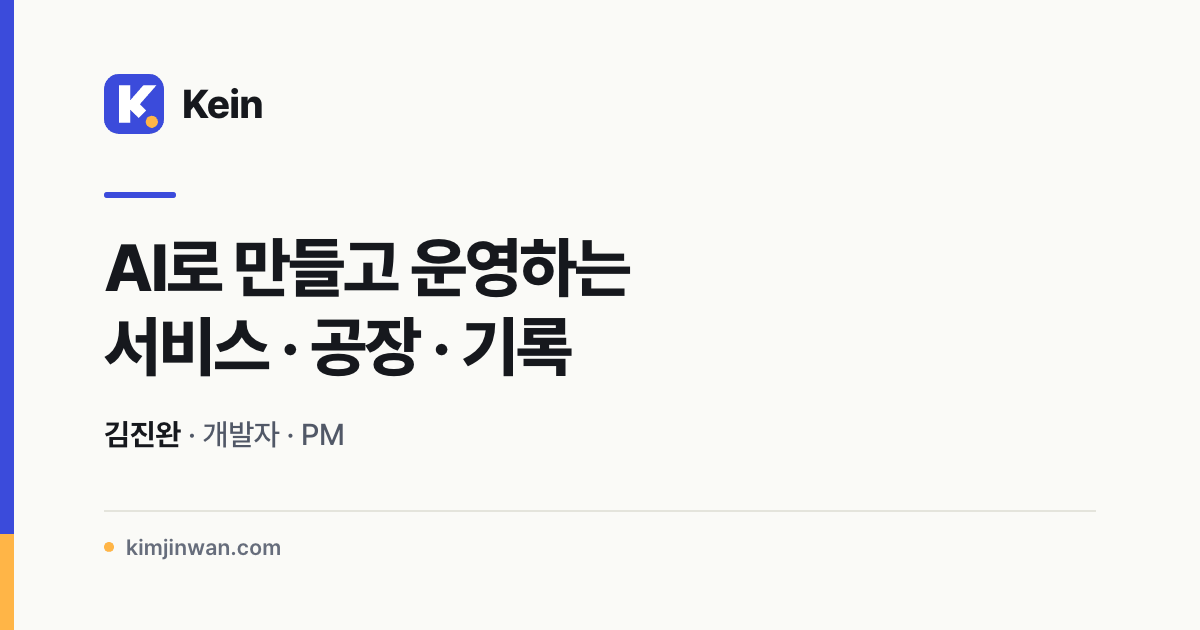
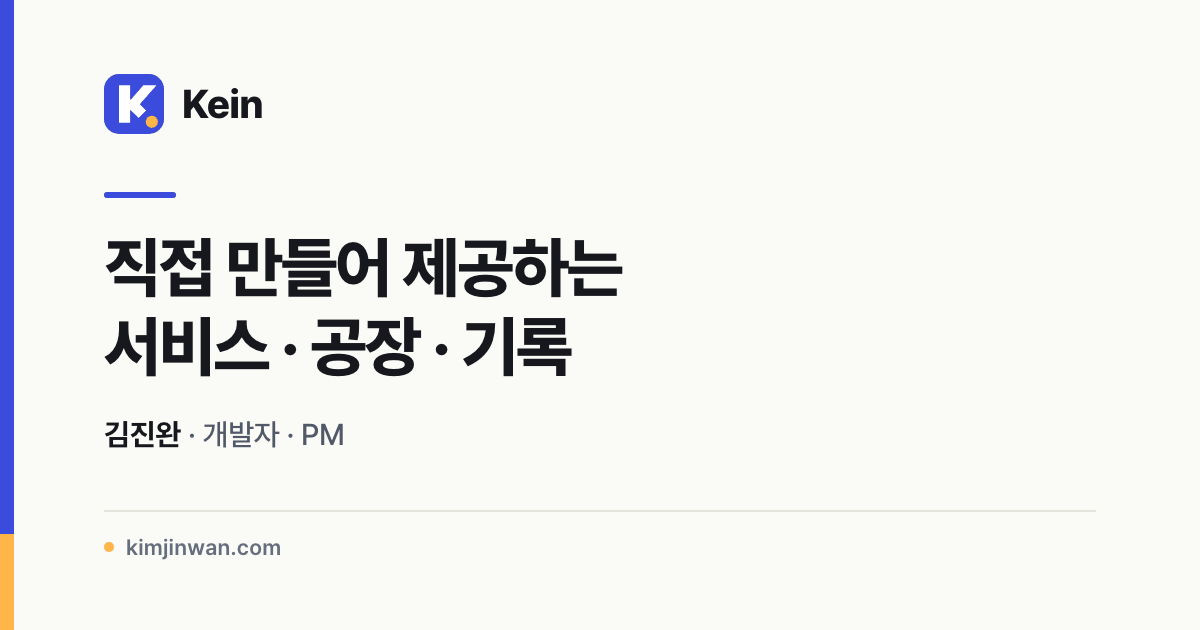
feat(home): 히어로 1인칭 소개로 재작성, '직접 만들어 제공하는 서비스' 표현 통일 (1.3.24)

Changed region(s): [[0.0925, 0.3619, 0.5242, 0.4825]]

diff --git a/index.html b/index.html
@@ -3,8 +3,8 @@
 <head>
 <meta charset="utf-8">
 <meta name="viewport" content="width=device-width,initial-scale=1">
-<title>김진완 — AI로 만들고 운영하는 개발자 · PM</title>
-<meta name="description" content="개발자·PM 김진완의 허브. 11년 현장 경력을 바탕으로 AI와 함께 직접 만들고 운영하는 서비스, 웹게임, 웹 도구, 블로그, 그리고 그 일을 돌리는 AI 공장 5곳을 한곳에 모았습니다.">
+<title>김진완 — 개발자 · PM</title>
+<meta name="description" content="개발자·PM 김진완의 홈페이지. 11년 현장 경력과, 직접 만들어 제공하는 서비스, 웹게임, 웹 도구, 블로그, 그리고 그 일을 돌리는 공장 5곳을 한곳에 모았습니다.">
 <meta name="robots" content="index,follow">
 <meta name="author" content="김진완">
 <meta name="google-adsense-account" content="ca-pub-5544615855471151">
@@ -19,24 +19,24 @@
 <meta property="og:site_name" content="Kein — 김진완">
 <meta property="og:locale" content="ko_KR">
 <meta property="og:locale:alternate" content="en_US">
-<meta property="og:title" content="김진완 — AI로 만들고 운영하는 개발자 · PM">
-<meta property="og:description" content="개발자·PM 김진완의 허브. 11년 현장 경력을 바탕으로 AI와 함께 직접 만들고 운영하는 서비스, 웹게임, 웹 도구, 블로그, 그리고 그 일을 돌리는 AI 공장 5곳을 한곳에 모았습니다.">
+<meta property="og:title" content="김진완 — 개발자 · PM">
+<meta property="og:description" content="개발자·PM 김진완의 홈페이지. 11년 현장 경력과, 직접 만들어 제공하는 서비스, 웹게임, 웹 도구, 블로그, 그리고 그 일을 돌리는 공장 5곳을 한곳에 모았습니다.">
 <meta property="og:url" content="https://kimjinwan.com/">
-<meta property="og:image" content="https://kimjinwan.com/assets/og/home.png?v=5f808c45a0">
-<meta property="og:image:secure_url" content="https://kimjinwan.com/assets/og/home.png?v=5f808c45a0">
+<meta property="og:image" content="https://kimjinwan.com/assets/og/home.png?v=7f8d5ca18e">
+<meta property="og:image:secure_url" content="https://kimjinwan.com/assets/og/home.png?v=7f8d5ca18e">
 <meta property="og:image:type" content="image/png">
 <meta property="og:image:width" content="1200">
 <meta property="og:image:height" content="630">
-<meta property="og:image:alt" content="“AI로 만들고 운영하는 서비스 · 공장 · 기록” — Kein 로고와 김진완 · 개발자 · PM, kimjinwan.com이 적힌 공유 카드">
+<meta property="og:image:alt" content="“직접 만들어 제공하는 서비스 · 공장 · 기록” — Kein 로고와 김진완 · 개발자 · PM, kimjinwan.com이 적힌 공유 카드">
 <meta name="twitter:card" content="summary_large_image">
-<meta name="twitter:title" content="김진완 — AI로 만들고 운영하는 개발자 · PM">
-<meta name="twitter:description" content="개발자·PM 김진완의 허브. 11년 현장 경력을 바탕으로 AI와 함께 직접 만들고 운영하는 서비스, 웹게임, 웹 도구, 블로그, 그리고 그 일을 돌리는 AI 공장 5곳을 한곳에 모았습니다.">
-<meta name="twitter:image" content="https://kimjinwan.com/assets/og/home.png?v=5f808c45a0">
-<meta name="twitter:image:alt" content="“AI로 만들고 운영하는 서비스 · 공장 · 기록” — Kein 로고와 김진완 · 개발자 · PM, kimjinwan.com이 적힌 공유 카드">
-<script type="application/ld+json">{"@context":"https://schema.org","@graph":[{"@type":"WebSite","@id":"https://kimjinwan.com/#website","url":"https://kimjinwan.com/","name":"Kein — 김진완","alternateName":["김진완 포트폴리오","Kim Jinwan"],"inLanguage":["ko","en"],"publisher":{"@id":"https://kimjinwan.com/#person"}},{"@type":"Person","@id":"https://kimjinwan.com/#person","name":"김진완","alternateName":["Kim Jinwan","Kein"],"url":"https://kimjinwan.com/","jobTitle":["Software Product Manager","Developer"],"knowsAbout":["PM / PO","Full-stack Dev","Team Leadership","AI Production"]},{"@type":"ProfilePage","@id":"https://kimjinwan.com/#profile","url":"https://kimjinwan.com/","name":"김진완 — AI로 만들고 운영하는 개발자 · PM","description":"개발자·PM 김진완의 허브. 11년 현장 경력을 바탕으로 AI와 함께 직접 만들고 운영하는 서비스, 웹게임, 웹 도구, 블로그, 그리고 그 일을 돌리는 AI 공장 5곳을 한곳에 모았습니다.","inLanguage":"ko","dateModified":"2026-10-12","mainEntity":{"@id":"https://kimjinwan.com/#person"},"isPartOf":{"@id":"https://kimjinwan.com/#website"},"relatedLink":"https://blog.kimjinwan.com/","primaryImageOfPage":{"@type":"ImageObject","@id":"https://kimjinwan.com/#primaryimage","url":"https://kimjinwan.com/assets/og/home.png?v=5f808c45a0","contentUrl":"https://kimjinwan.com/assets/og/home.png?v=5f808c45a0","thumbnailUrl":"https://kimjinwan.com/assets/og/home.png?v=5f808c45a0","width":1200,"height":630,"caption":"“AI로 만들고 운영하는 서비스 · 공장 · 기록” — Kein 로고와 김진완 · 개발자 · PM, kimjinwan.com이 적힌 공유 카드"},"thumbnailUrl":"https://kimjinwan.com/assets/og/home.png?v=5f808c45a0"}]}</script>
+<meta name="twitter:title" content="김진완 — 개발자 · PM">
+<meta name="twitter:description" content="개발자·PM 김진완의 홈페이지. 11년 현장 경력과, 직접 만들어 제공하는 서비스, 웹게임, 웹 도구, 블로그, 그리고 그 일을 돌리는 공장 5곳을 한곳에 모았습니다.">
+<meta name="twitter:image" content="https://kimjinwan.com/assets/og/home.png?v=7f8d5ca18e">
+<meta name="twitter:image:alt" content="“직접 만들어 제공하는 서비스 · 공장 · 기록” — Kein 로고와 김진완 · 개발자 · PM, kimjinwan.com이 적힌 공유 카드">
+<script type="application/ld+json">{"@context":"https://schema.org","@graph":[{"@type":"WebSite","@id":"https://kimjinwan.com/#website","url":"https://kimjinwan.com/","name":"Kein — 김진완","alternateName":["김진완 포트폴리오","Kim Jinwan"],"inLanguage":["ko","en"],"publisher":{"@id":"https://kimjinwan.com/#person"}},{"@type":"Person","@id":"https://kimjinwan.com/#person","name":"김진완","alternateName":["Kim Jinwan","Kein"],"url":"https://kimjinwan.com/","jobTitle":["Software Product Manager","Developer"],"knowsAbout":["PM / PO","Full-stack Dev","Team Leadership","AI Production"]},{"@type":"ProfilePage","@id":"https://kimjinwan.com/#profile","url":"https://kimjinwan.com/","name":"김진완 — 개발자 · PM","description":"개발자·PM 김진완의 홈페이지. 11년 현장 경력과, 직접 만들어 제공하는 서비스, 웹게임, 웹 도구, 블로그, 그리고 그 일을 돌리는 공장 5곳을 한곳에 모았습니다.","inLanguage":"ko","dateModified":"2026-10-12","mainEntity":{"@id":"https://kimjinwan.com/#person"},"isPartOf":{"@id":"https://kimjinwan.com/#website"},"relatedLink":"https://blog.kimjinwan.com/","primaryImageOfPage":{"@type":"ImageObject","@id":"https://kimjinwan.com/#primaryimage","url":"https://kimjinwan.com/assets/og/home.png?v=7f8d5ca18e","contentUrl":"https://kimjinwan.com/assets/og/home.png?v=7f8d5ca18e","thumbnailUrl":"https://kimjinwan.com/assets/og/home.png?v=7f8d5ca18e","width":1200,"height":630,"caption":"“직접 만들어 제공하는 서비스 · 공장 · 기록” — Kein 로고와 김진완 · 개발자 · PM, kimjinwan.com이 적힌 공유 카드"},"thumbnailUrl":"https://kimjinwan.com/assets/og/home.png?v=7f8d5ca18e"}]}</script>
 <link rel="preconnect" href="https://cdn.jsdelivr.net">
 <link rel="stylesheet" href="https://cdn.jsdelivr.net/gh/orioncactus/pretendard@v1.3.9/dist/web/static/pretendard-dynamic-subset.css">
-<link rel="stylesheet" href="/css/style.css?v=1.3.23">
+<link rel="stylesheet" href="/css/style.css?v=1.3.24">
 <script src="/js/theme-core.js"></script>
 <script>document.documentElement.classList.add('js');__theme.apply()</script>
 </head>
@@ -66,8 +66,8 @@
 <header class="hero2" id="top"><div class="wrap hero2-grid">
   <div>
     <div class="sec-no eyebrow-row"><svg class="ico" width="16" height="16" viewBox="0 0 24 24" fill="none" stroke="currentColor" stroke-width="1.75" stroke-linecap="round" stroke-linejoin="round" aria-hidden="true" focusable="false"><circle cx="12" cy="8" r="4"/><path d="M4 21c0-4.4 3.6-7 8-7s8 2.6 8 7"/></svg><span data-lang-ko>개발자 · PM 김진완</span><span data-lang-en>Developer &amp; PM · Kim Jinwan</span></div>
-    <h1><span data-lang-ko>AI로 만들고 직접 운영하는<br>개발자 · PM, 김진완입니다.</span><span data-lang-en>I'm Jinwan Kim, a developer &amp; PM<br>who builds and runs services with AI.</span></h1>
-    <p class="lead"><span data-lang-ko>영업·기획에서 시작해 개발자, 개발팀장, PM으로 11년을 현장에서 일했습니다. 지금은 그 경험으로 무엇을 만들지 정하고, 반복되는 작업은 직접 설계한 AI 공장에 맡깁니다. 이 페이지는 직접 만들어 운영하는 서비스, 그 생산을 맡은 AI 공장, 그리고 경력 순서로 이어집니다.</span><span data-lang-en>I spent 11 years in the field, starting in sales and planning and moving on to developer, dev lead and PM. Now that experience decides what I build, and the repetitive work goes to AI factories I designed. This page follows that in order: the services I build and run, the AI factories behind them, and my career.</span></p>
+    <h1><span data-lang-ko>안녕하세요,<br>개발자이자 PM 김진완입니다.</span><span data-lang-en>Hi, I'm Jinwan Kim,<br>a developer and PM.</span></h1>
+    <p class="lead"><span data-lang-ko>영업과 기획에서 시작해 개발자, 개발팀장, PM까지 11년을 현장에서 일했습니다. 문제를 쪼개 논리적으로 풀고, 검증을 통과한 것만 내놓고, 만든 것은 끝까지 운영하는 방식으로 일합니다. 지금도 쉬지 않고 무언가를 만들고 있습니다. 아래에는 만들어 제공하는 서비스, 그 생산을 맡긴 공장, 그리고 지나온 경력을 차례로 적었습니다.</span><span data-lang-en>I started in sales and planning, then spent 11 years in the field as a developer, dev lead and PM. I break problems down and solve them logically, ship only what passes verification, and keep running what I build. I still never stop making things. Below are the services I provide, the factories behind them, and the career that led here.</span></p>
   </div>
   <div class="hero-media">
     <video id="heroVideo" class="hero-video" src="/assets/hero/jinwan-intro.mp4" poster="/assets/hero/jinwan-intro.jpg" muted loop playsinline autoplay preload="metadata" width="1920" height="1080" aria-label="김진완 소개 모션그래픽 영상"></video>
@@ -80,8 +80,8 @@
 
 <section class="block story" id="services"><div class="wrap">
   <div class="sec-head"><div class="sec-no"><svg class="ico" width="16" height="16" viewBox="0 0 24 24" fill="none" stroke="currentColor" stroke-width="1.75" stroke-linecap="round" stroke-linejoin="round" aria-hidden="true" focusable="false"><path d="M5 15c-1.5 1.2-2 4-2 6 2 0 4.8-.5 6-2"/><path d="M12 15 9 12c.5-4 4-8.5 11-9 0 7-5 10.5-8 12z"/><circle cx="15" cy="9" r="1.2"/></svg><b>01</b> Services</div>
-    <h2 class="sec-title"><span data-lang-ko>직접 만들어 운영하는 서비스</span><span data-lang-en>Services I build and run</span></h2></div>
-    <p class="bridge"><span data-lang-ko>먼저 크게 만든 것들입니다. 전부 직접 만들었고, 지금도 실제 주소에서 운영하고 있습니다.</span><span data-lang-en>First, the big ones. I built every one myself, and I still run them at their live addresses.</span></p>
+    <h2 class="sec-title"><span data-lang-ko>직접 만들어 제공하는 서비스</span><span data-lang-en>Services I build and provide</span></h2></div>
+    <p class="bridge"><span data-lang-ko>먼저 크게 만든 것들입니다. 전부 직접 만들었고, 지금도 실제 주소에서 제공하고 있습니다.</span><span data-lang-en>First, the big ones. I built every one myself, and they are all available at their live addresses.</span></p>
     <div class="svc-block"><div class="svc-jump" role="group" aria-label="service categories"><button type="button" class="pill" data-svc-cat="all" aria-pressed="true"><svg class="ico" width="16" height="16" viewBox="0 0 24 24" fill="none" stroke="currentColor" stroke-width="1.75" stroke-linecap="round" stroke-linejoin="round" aria-hidden="true" focusable="false"><path d="m12 3 9 5-9 5-9-5z"/><path d="m3 13 9 5 9-5"/></svg><span data-lang-ko>전체</span><span data-lang-en>All</span><span class="pill-n mono">12</span></button><button type="button" class="pill" data-svc-cat="document" aria-pressed="false"><svg class="ico" width="16" height="16" viewBox="0 0 24 24" fill="none" stroke="currentColor" stroke-width="1.75" stroke-linecap="round" stroke-linejoin="round" aria-hidden="true" focusable="false"><path d="M14 3H7a2 2 0 0 0-2 2v14a2 2 0 0 0 2 2h10a2 2 0 0 0 2-2V8z"/><path d="M14 3v5h5"/><path d="M9 13h6M9 17h6"/></svg><span data-lang-ko>문서·업무</span><span data-lang-en>Documents &amp; work</span><span class="pill-n mono">3</span></button><button type="button" class="pill" data-svc-cat="creative" aria-pressed="false"><svg class="ico" width="16" height="16" viewBox="0 0 24 24" fill="none" stroke="currentColor" stroke-width="1.75" stroke-linecap="round" stroke-linejoin="round" aria-hidden="true" focusable="false"><path d="M12 3l1.9 5.1L19 10l-5.1 1.9L12 17l-1.9-5.1L5 10l5.1-1.9z"/><path d="M19 15v4M17 17h4"/></svg><span data-lang-ko>디자인·창작</span><span data-lang-en>Design &amp; creative</span><span class="pill-n mono">3</span></button><button type="button" class="pill" data-svc-cat="build" aria-pressed="false"><svg class="ico" width="16" height="16" viewBox="0 0 24 24" fill="none" stroke="currentColor" stroke-width="1.75" stroke-linecap="round" stroke-linejoin="round" aria-hidden="true" focusable="false"><path d="M14.7 6.3a4 4 0 0 0 5 5L21 13l-8 8-4-4-4 1 1-4 8-8z"/><path d="m15 9 3-3"/></svg><span data-lang-ko>개발·제작</span><span data-lang-en>Build &amp; make</span><span class="pill-n mono">2</span></button><button type="button" class="pill" data-svc-cat="hub" aria-pressed="false"><svg class="ico" width="16" height="16" viewBox="0 0 24 24" fill="none" stroke="currentColor" stroke-width="1.75" stroke-linecap="round" stroke-linejoin="round" aria-hidden="true" focusable="false"><rect x="2" y="7" width="20" height="11" rx="5"/><path d="M7 10.5v4M5 12.5h4"/><path d="M15.5 11.5h.01M18 13.5h.01"/></svg><span data-lang-ko>게임·도구·글</span><span data-lang-en>Games, tools &amp; writing</span><span class="pill-n mono">3</span></button><button type="button" class="pill" data-svc-cat="ai-tools" aria-pressed="false"><svg class="ico" width="16" height="16" viewBox="0 0 24 24" fill="none" stroke="currentColor" stroke-width="1.75" stroke-linecap="round" stroke-linejoin="round" aria-hidden="true" focusable="false"><path d="m12 3 9 5-9 5-9-5z"/><path d="m3 13 9 5 9-5"/></svg><span data-lang-ko>AI 도구 모음</span><span data-lang-en>AI tool collections</span><span class="pill-n mono">1</span></button></div>
 <div class="svc-feature" id="svc-grid"><article class="card svc-wide" id="svc-casewright" data-category="build">
   <div class="svcw-shot"><img src="/assets/services/casewright.png" alt="Casewright screenshot" loading="lazy" width="640" height="400"></div>
@@ -347,7 +347,7 @@
 <footer id="contact"><div class="wrap">
   <div class="foot-cta">
     <h2><span data-lang-ko>함께 만들 무언가가 있다면</span><span data-lang-en>Got something to build together?</span></h2>
-    <p><span data-lang-ko>현장의 디테일을 이해하고 정확하게 이끄는 PM, 그리고 AI로 직접 만들어 운영까지 하는 개발자를 찾는다면 연락 주세요.</span><span data-lang-en>If you need a PM who understands the work and leads with precision, and a developer who builds and runs things with AI, let's talk.</span></p>
+    <p><span data-lang-ko>현장의 디테일을 이해하고 정확하게 이끄는 PM, 그리고 직접 만들어 제공하는 개발자를 찾는다면 연락 주세요.</span><span data-lang-en>If you need a PM who understands the work and leads with precision, and a developer who builds and delivers things on their own, let's talk.</span></p>
     <div class="contacts">
       <a href="mailto:k_star_w@naver.com"><svg class="ico" width="18" height="18" viewBox="0 0 24 24" fill="none" stroke="currentColor" stroke-width="1.75" stroke-linecap="round" stroke-linejoin="round" aria-hidden="true" focusable="false"><rect x="3" y="5" width="18" height="14" rx="2"/><path d="m3 7 9 6 9-6"/></svg>k_star_w@naver.com</a>
     </div>

diff --git a/factories/index.html b/factories/index.html
@@ -36,7 +36,7 @@
 <script type="application/ld+json">{"@context":"https://schema.org","@graph":[{"@type":"WebSite","@id":"https://kimjinwan.com/#website","url":"https://kimjinwan.com/","name":"Kein — 김진완","alternateName":["김진완 포트폴리오","Kim Jinwan"],"inLanguage":["ko","en"],"publisher":{"@id":"https://kimjinwan.com/#person"}},{"@type":"Person","@id":"https://kimjinwan.com/#person","name":"김진완","alternateName":["Kim Jinwan","Kein"],"url":"https://kimjinwan.com/","jobTitle":["Software Product Manager","Developer"],"knowsAbout":["PM / PO","Full-stack Dev","Team Leadership","AI Production"]},{"@type":"WebPage","@id":"https://kimjinwan.com/factories/#webpage","url":"https://kimjinwan.com/factories/","name":"서비스를 만드는 AI 공장 5곳 — 김진완","description":"앱, 웹게임, 쇼츠 영상, 블로그, 웹 도구를 꾸준히 만들어 내도록 직접 설계한 AI 공장 5곳. 공장마다 만드는 것과 거치는 단계, 출시 전에 확인하는 기준, 사람이 직접 맡는 일을 정리했습니다.","inLanguage":"ko","dateModified":"2026-10-12","isPartOf":{"@id":"https://kimjinwan.com/#website"},"about":{"@id":"https://kimjinwan.com/#person"},"breadcrumb":{"@id":"https://kimjinwan.com/factories/#breadcrumb"},"primaryImageOfPage":{"@type":"ImageObject","@id":"https://kimjinwan.com/factories/#primaryimage","url":"https://kimjinwan.com/assets/og/factories.png?v=7e303932e4","contentUrl":"https://kimjinwan.com/assets/og/factories.png?v=7e303932e4","thumbnailUrl":"https://kimjinwan.com/assets/og/factories.png?v=7e303932e4","width":1200,"height":630,"caption":"“서비스를 만드는 AI 공장 5곳” — Kein 로고와 김진완 · 개발자 · PM, kimjinwan.com이 적힌 공유 카드"},"thumbnailUrl":"https://kimjinwan.com/assets/og/factories.png?v=7e303932e4"},{"@type":"BreadcrumbList","@id":"https://kimjinwan.com/factories/#breadcrumb","itemListElement":[{"@type":"ListItem","position":1,"name":"홈","item":"https://kimjinwan.com/"},{"@type":"ListItem","position":2,"name":"AI 공장","item":"https://kimjinwan.com/factories/"}]}]}</script>
 <link rel="preconnect" href="https://cdn.jsdelivr.net">
 <link rel="stylesheet" href="https://cdn.jsdelivr.net/gh/orioncactus/pretendard@v1.3.9/dist/web/static/pretendard-dynamic-subset.css">
-<link rel="stylesheet" href="/css/style.css?v=1.3.23">
+<link rel="stylesheet" href="/css/style.css?v=1.3.24">
 <script src="/js/theme-core.js"></script>
 <script>document.documentElement.classList.add('js');__theme.apply()</script>
 </head>
@@ -66,7 +66,7 @@
   <nav class="crumbs" aria-label="breadcrumb"><ol><li><a href="/"><svg class="ico" width="16" height="16" viewBox="0 0 24 24" fill="none" stroke="currentColor" stroke-width="1.75" stroke-linecap="round" stroke-linejoin="round" aria-hidden="true" focusable="false"><path d="M19 12H5"/><path d="m11 6-6 6 6 6"/></svg><span data-lang-ko>홈</span><span data-lang-en>Home</span></a></li><li aria-current="page"><span data-lang-ko>AI 공장</span><span data-lang-en>Factories</span></li></ol></nav>
   <div class="sec-head"><div class="sec-no"><svg class="ico" width="16" height="16" viewBox="0 0 24 24" fill="none" stroke="currentColor" stroke-width="1.75" stroke-linecap="round" stroke-linejoin="round" aria-hidden="true" focusable="false"><path d="M3 21V10l6 4V10l6 4V6h3v15z"/><path d="M3 21h18"/><path d="M8 17h1M12 17h1M16 17h1"/></svg><b>Factories</b></div>
     <h1 class="sec-title"><span data-lang-ko>직접 설계한 AI 공장</span><span data-lang-en>The AI factories I designed</span></h1>
-    <p class="sec-sub"><span data-lang-ko>서비스를 직접 만들어 운영하는 데서 그치지 않고, 반복되는 생산을 공장으로 묶었습니다. 여기 있는 공장은 "AI가 알아서 한다"가 아니라, 단계와 품질 게이트가 정의된 파이프라인입니다. 게이트를 통과하지 못하면 다음 단계로 가지 못하고, 사람이 개입하는 지점은 공장마다 정해져 있습니다. 앱은 심사 제출을 사람이 승인하고, 블로그·영상·웹 도구는 공개 전 사람 승인 없이 자동 검사를 거쳐 공개합니다. 수치는 표시된 기준일의 실측값입니다.</span><span data-lang-en>I didn't stop at building and running services; I tied repeated production into factories. These are not "AI does whatever"; each is a pipeline with defined stages and quality gates. Work cannot advance past a failing gate, and the points where a person steps in are fixed per factory. I approve app submissions myself; the blog, videos and web tools go public after automated checks, with no pre-publish human approval. Figures are measured as of the date shown.</span></p></div>
+    <p class="sec-sub"><span data-lang-ko>서비스를 직접 만들어 제공하는 데서 그치지 않고, 반복되는 생산을 공장으로 묶었습니다. 여기 있는 공장은 "AI가 알아서 한다"가 아니라, 단계와 품질 게이트가 정의된 파이프라인입니다. 게이트를 통과하지 못하면 다음 단계로 가지 못하고, 사람이 개입하는 지점은 공장마다 정해져 있습니다. 앱은 심사 제출을 사람이 승인하고, 블로그·영상·웹 도구는 공개 전 사람 승인 없이 자동 검사를 거쳐 공개합니다. 수치는 표시된 기준일의 실측값입니다.</span><span data-lang-en>I didn't stop at building and providing services; I tied repeated production into factories. These are not "AI does whatever"; each is a pipeline with defined stages and quality gates. Work cannot advance past a failing gate, and the points where a person steps in are fixed per factory. I approve app submissions myself; the blog, videos and web tools go public after automated checks, with no pre-publish human approval. Figures are measured as of the date shown.</span></p></div>
   <div class="pills" role="navigation" aria-label="factories"><a class="pill" href="#app-factory"><svg class="ico" width="16" height="16" viewBox="0 0 24 24" fill="none" stroke="currentColor" stroke-width="1.75" stroke-linecap="round" stroke-linejoin="round" aria-hidden="true" focusable="false"><rect x="6" y="2" width="12" height="20" rx="3"/><path d="M11 18h2"/></svg><span data-lang-ko>앱 공장</span><span data-lang-en>App Factory</span></a><a class="pill" href="#web-games"><svg class="ico" width="16" height="16" viewBox="0 0 24 24" fill="none" stroke="currentColor" stroke-width="1.75" stroke-linecap="round" stroke-linejoin="round" aria-hidden="true" focusable="false"><rect x="2" y="7" width="20" height="11" rx="5"/><path d="M7 10.5v4M5 12.5h4"/><path d="M15.5 11.5h.01M18 13.5h.01"/></svg><span data-lang-ko>웹게임 파이프라인</span><span data-lang-en>Web Game Pipeline</span></a><a class="pill" href="#video"><svg class="ico" width="16" height="16" viewBox="0 0 24 24" fill="none" stroke="currentColor" stroke-width="1.75" stroke-linecap="round" stroke-linejoin="round" aria-hidden="true" focusable="false"><rect x="3" y="5" width="18" height="14" rx="4"/><path d="m10 9 5 3-5 3z"/></svg><span data-lang-ko>영상 자동화</span><span data-lang-en>Video Automation</span></a><a class="pill" href="#blog"><svg class="ico" width="16" height="16" viewBox="0 0 24 24" fill="none" stroke="currentColor" stroke-width="1.75" stroke-linecap="round" stroke-linejoin="round" aria-hidden="true" focusable="false"><path d="M14 3H7a2 2 0 0 0-2 2v14a2 2 0 0 0 2 2h10a2 2 0 0 0 2-2V8z"/><path d="M14 3v5h5"/><path d="M9 13h6M9 17h6"/></svg><span data-lang-ko>블로그 공장</span><span data-lang-en>Blog Factory</span></a><a class="pill" href="#web-tools"><svg class="ico" width="16" height="16" viewBox="0 0 24 24" fill="none" stroke="currentColor" stroke-width="1.75" stroke-linecap="round" stroke-linejoin="round" aria-hidden="true" focusable="false"><path d="M14.7 6.3a4 4 0 0 0 5 5L21 13l-8 8-4-4-4 1 1-4 8-8z"/><path d="m15 9 3-3"/></svg><span data-lang-ko>웹 도구 공장</span><span data-lang-en>Web Tools Factory</span></a></div>
   <p class="legend mono"><span class="lg lg-ai"><svg class="ico" width="14" height="14" viewBox="0 0 24 24" fill="none" stroke="currentColor" stroke-width="1.75" stroke-linecap="round" stroke-linejoin="round" aria-hidden="true" focusable="false"><path d="M12 3l1.9 5.1L19 10l-5.1 1.9L12 17l-1.9-5.1L5 10l5.1-1.9z"/><path d="M19 15v4M17 17h4"/></svg>AI</span><span class="lg lg-gate"><svg class="ico" width="14" height="14" viewBox="0 0 24 24" fill="none" stroke="currentColor" stroke-width="1.75" stroke-linecap="round" stroke-linejoin="round" aria-hidden="true" focusable="false"><path d="M12 3 4 6v6c0 4.5 3.2 7.8 8 9 4.8-1.2 8-4.5 8-9V6z"/><path d="m9 12 2 2 4-4"/></svg>GATE</span><span class="lg lg-human"><svg class="ico" width="14" height="14" viewBox="0 0 24 24" fill="none" stroke="currentColor" stroke-width="1.75" stroke-linecap="round" stroke-linejoin="round" aria-hidden="true" focusable="false"><path d="M8 13V5a1.5 1.5 0 0 1 3 0v6"/><path d="M11 11V3.5a1.5 1.5 0 0 1 3 0V11"/><path d="M14 11V5a1.5 1.5 0 0 1 3 0v8"/><path d="M17 9.5a1.5 1.5 0 0 1 3 0V15c0 4-3 7-7 7h-1c-3 0-4.5-1.5-6-4l-2.5-4.2a1.5 1.5 0 0 1 2.5-1.6L8 15"/></svg>HUMAN</span></p>
   <div class="fac-list"><article class="fac" id="app-factory">
@@ -139,7 +139,7 @@
 <footer id="contact"><div class="wrap">
   <div class="foot-cta">
     <h2><span data-lang-ko>함께 만들 무언가가 있다면</span><span data-lang-en>Got something to build together?</span></h2>
-    <p><span data-lang-ko>현장의 디테일을 이해하고 정확하게 이끄는 PM, 그리고 AI로 직접 만들어 운영까지 하는 개발자를 찾는다면 연락 주세요.</span><span data-lang-en>If you need a PM who understands the work and leads with precision, and a developer who builds and runs things with AI, let's talk.</span></p>
+    <p><span data-lang-ko>현장의 디테일을 이해하고 정확하게 이끄는 PM, 그리고 직접 만들어 제공하는 개발자를 찾는다면 연락 주세요.</span><span data-lang-en>If you need a PM who understands the work and leads with precision, and a developer who builds and delivers things on their own, let's talk.</span></p>
     <div class="contacts">
       <a href="mailto:k_star_w@naver.com"><svg class="ico" width="18" height="18" viewBox="0 0 24 24" fill="none" stroke="currentColor" stroke-width="1.75" stroke-linecap="round" stroke-linejoin="round" aria-hidden="true" focusable="false"><rect x="3" y="5" width="18" height="14" rx="2"/><path d="m3 7 9 6 9-6"/></svg>k_star_w@naver.com</a>
     </div>

diff --git a/works/index.html b/works/index.html
@@ -3,8 +3,8 @@
 <head>
 <meta charset="utf-8">
 <meta name="viewport" content="width=device-width,initial-scale=1">
-<title>서비스 — 직접 만들어 운영하는 서비스 · 김진완</title>
-<meta name="description" content="김진완이 AI와 함께 직접 만들어 운영하는 서비스, 웹게임, 웹 도구, 블로그와 앱을 한 페이지에 모았습니다. 분류별로 골라 보고 각 서비스의 현재 상태와 바로가기를 확인할 수 있습니다.">
+<title>서비스 — 직접 만들어 제공하는 서비스 · 김진완</title>
+<meta name="description" content="김진완이 직접 만들어 제공하는 서비스, 웹게임, 웹 도구, 블로그와 앱을 한 페이지에 모았습니다. 분류별로 골라 보고 각 서비스의 현재 상태와 바로가기를 확인할 수 있습니다.">
 <meta name="robots" content="index,follow">
 <meta name="author" content="김진완">
 <meta name="google-adsense-account" content="ca-pub-5544615855471151">
@@ -19,24 +19,24 @@
 <meta property="og:site_name" content="Kein — 김진완">
 <meta property="og:locale" content="ko_KR">
 <meta property="og:locale:alternate" content="en_US">
-<meta property="og:title" content="서비스 — 직접 만들어 운영하는 서비스 · 김진완">
-<meta property="og:description" content="김진완이 AI와 함께 직접 만들어 운영하는 서비스, 웹게임, 웹 도구, 블로그와 앱을 한 페이지에 모았습니다. 분류별로 골라 보고 각 서비스의 현재 상태와 바로가기를 확인할 수 있습니다.">
+<meta property="og:title" content="서비스 — 직접 만들어 제공하는 서비스 · 김진완">
+<meta property="og:description" content="김진완이 직접 만들어 제공하는 서비스, 웹게임, 웹 도구, 블로그와 앱을 한 페이지에 모았습니다. 분류별로 골라 보고 각 서비스의 현재 상태와 바로가기를 확인할 수 있습니다.">
 <meta property="og:url" content="https://kimjinwan.com/works/">
-<meta property="og:image" content="https://kimjinwan.com/assets/og/works.png?v=053e32cb2a">
-<meta property="og:image:secure_url" content="https://kimjinwan.com/assets/og/works.png?v=053e32cb2a">
+<meta property="og:image" content="https://kimjinwan.com/assets/og/works.png?v=755fbca4c8">
+<meta property="og:image:secure_url" content="https://kimjinwan.com/assets/og/works.png?v=755fbca4c8">
 <meta property="og:image:type" content="image/png">
 <meta property="og:image:width" content="1200">
 <meta property="og:image:height" content="630">
-<meta property="og:image:alt" content="“직접 만들어 운영하는 서비스와 작업물” — Kein 로고와 김진완 · 개발자 · PM, kimjinwan.com이 적힌 공유 카드">
+<meta property="og:image:alt" content="“직접 만들어 제공하는 서비스와 작업물” — Kein 로고와 김진완 · 개발자 · PM, kimjinwan.com이 적힌 공유 카드">
 <meta name="twitter:card" content="summary_large_image">
-<meta name="twitter:title" content="서비스 — 직접 만들어 운영하는 서비스 · 김진완">
-<meta name="twitter:description" content="김진완이 AI와 함께 직접 만들어 운영하는 서비스, 웹게임, 웹 도구, 블로그와 앱을 한 페이지에 모았습니다. 분류별로 골라 보고 각 서비스의 현재 상태와 바로가기를 확인할 수 있습니다.">
-<meta name="twitter:image" content="https://kimjinwan.com/assets/og/works.png?v=053e32cb2a">
-<meta name="twitter:image:alt" content="“직접 만들어 운영하는 서비스와 작업물” — Kein 로고와 김진완 · 개발자 · PM, kimjinwan.com이 적힌 공유 카드">
-<script type="application/ld+json">{"@context":"https://schema.org","@graph":[{"@type":"WebSite","@id":"https://kimjinwan.com/#website","url":"https://kimjinwan.com/","name":"Kein — 김진완","alternateName":["김진완 포트폴리오","Kim Jinwan"],"inLanguage":["ko","en"],"publisher":{"@id":"https://kimjinwan.com/#person"}},{"@type":"Person","@id":"https://kimjinwan.com/#person","name":"김진완","alternateName":["Kim Jinwan","Kein"],"url":"https://kimjinwan.com/","jobTitle":["Software Product Manager","Developer"],"knowsAbout":["PM / PO","Full-stack Dev","Team Leadership","AI Production"]},{"@type":"WebPage","@id":"https://kimjinwan.com/works/#webpage","url":"https://kimjinwan.com/works/","name":"서비스 — 직접 만들어 운영하는 서비스 · 김진완","description":"김진완이 AI와 함께 직접 만들어 운영하는 서비스, 웹게임, 웹 도구, 블로그와 앱을 한 페이지에 모았습니다. 분류별로 골라 보고 각 서비스의 현재 상태와 바로가기를 확인할 수 있습니다.","inLanguage":"ko","dateModified":"2026-10-12","isPartOf":{"@id":"https://kimjinwan.com/#website"},"about":{"@id":"https://kimjinwan.com/#person"},"breadcrumb":{"@id":"https://kimjinwan.com/works/#breadcrumb"},"primaryImageOfPage":{"@type":"ImageObject","@id":"https://kimjinwan.com/works/#primaryimage","url":"https://kimjinwan.com/assets/og/works.png?v=053e32cb2a","contentUrl":"https://kimjinwan.com/assets/og/works.png?v=053e32cb2a","thumbnailUrl":"https://kimjinwan.com/assets/og/works.png?v=053e32cb2a","width":1200,"height":630,"caption":"“직접 만들어 운영하는 서비스와 작업물” — Kein 로고와 김진완 · 개발자 · PM, kimjinwan.com이 적힌 공유 카드"},"thumbnailUrl":"https://kimjinwan.com/assets/og/works.png?v=053e32cb2a"},{"@type":"BreadcrumbList","@id":"https://kimjinwan.com/works/#breadcrumb","itemListElement":[{"@type":"ListItem","position":1,"name":"홈","item":"https://kimjinwan.com/"},{"@type":"ListItem","position":2,"name":"서비스","item":"https://kimjinwan.com/works/"}]}]}</script>
+<meta name="twitter:title" content="서비스 — 직접 만들어 제공하는 서비스 · 김진완">
+<meta name="twitter:description" content="김진완이 직접 만들어 제공하는 서비스, 웹게임, 웹 도구, 블로그와 앱을 한 페이지에 모았습니다. 분류별로 골라 보고 각 서비스의 현재 상태와 바로가기를 확인할 수 있습니다.">
+<meta name="twitter:image" content="https://kimjinwan.com/assets/og/works.png?v=755fbca4c8">
+<meta name="twitter:image:alt" content="“직접 만들어 제공하는 서비스와 작업물” — Kein 로고와 김진완 · 개발자 · PM, kimjinwan.com이 적힌 공유 카드">
+<script type="application/ld+json">{"@context":"https://schema.org","@graph":[{"@type":"WebSite","@id":"https://kimjinwan.com/#website","url":"https://kimjinwan.com/","name":"Kein — 김진완","alternateName":["김진완 포트폴리오","Kim Jinwan"],"inLanguage":["ko","en"],"publisher":{"@id":"https://kimjinwan.com/#person"}},{"@type":"Person","@id":"https://kimjinwan.com/#person","name":"김진완","alternateName":["Kim Jinwan","Kein"],"url":"https://kimjinwan.com/","jobTitle":["Software Product Manager","Developer"],"knowsAbout":["PM / PO","Full-stack Dev","Team Leadership","AI Production"]},{"@type":"WebPage","@id":"https://kimjinwan.com/works/#webpage","url":"https://kimjinwan.com/works/","name":"서비스 — 직접 만들어 제공하는 서비스 · 김진완","description":"김진완이 직접 만들어 제공하는 서비스, 웹게임, 웹 도구, 블로그와 앱을 한 페이지에 모았습니다. 분류별로 골라 보고 각 서비스의 현재 상태와 바로가기를 확인할 수 있습니다.","inLanguage":"ko","dateModified":"2026-10-12","isPartOf":{"@id":"https://kimjinwan.com/#website"},"about":{"@id":"https://kimjinwan.com/#person"},"breadcrumb":{"@id":"https://kimjinwan.com/works/#breadcrumb"},"primaryImageOfPage":{"@type":"ImageObject","@id":"https://kimjinwan.com/works/#primaryimage","url":"https://kimjinwan.com/assets/og/works.png?v=755fbca4c8","contentUrl":"https://kimjinwan.com/assets/og/works.png?v=755fbca4c8","thumbnailUrl":"https://kimjinwan.com/assets/og/works.png?v=755fbca4c8","width":1200,"height":630,"caption":"“직접 만들어 제공하는 서비스와 작업물” — Kein 로고와 김진완 · 개발자 · PM, kimjinwan.com이 적힌 공유 카드"},"thumbnailUrl":"https://kimjinwan.com/assets/og/works.png?v=755fbca4c8"},{"@type":"BreadcrumbList","@id":"https://kimjinwan.com/works/#breadcrumb","itemListElement":[{"@type":"ListItem","position":1,"name":"홈","item":"https://kimjinwan.com/"},{"@type":"ListItem","position":2,"name":"서비스","item":"https://kimjinwan.com/works/"}]}]}</script>
 <link rel="preconnect" href="https://cdn.jsdelivr.net">
 <link rel="stylesheet" href="https://cdn.jsdelivr.net/gh/orioncactus/pretendard@v1.3.9/dist/web/static/pretendard-dynamic-subset.css">
-<link rel="stylesheet" href="/css/style.css?v=1.3.23">
+<link rel="stylesheet" href="/css/style.css?v=1.3.24">
 <script src="/js/theme-core.js"></script>
 <script>document.documentElement.classList.add('js');__theme.apply()</script>
 </head>
@@ -214,7 +214,7 @@
 <footer id="contact"><div class="wrap">
   <div class="foot-cta">
     <h2><span data-lang-ko>함께 만들 무언가가 있다면</span><span data-lang-en>Got something to build together?</span></h2>
-    <p><span data-lang-ko>현장의 디테일을 이해하고 정확하게 이끄는 PM, 그리고 AI로 직접 만들어 운영까지 하는 개발자를 찾는다면 연락 주세요.</span><span data-lang-en>If you need a PM who understands the work and leads with precision, and a developer who builds and runs things with AI, let's talk.</span></p>
+    <p><span data-lang-ko>현장의 디테일을 이해하고 정확하게 이끄는 PM, 그리고 직접 만들어 제공하는 개발자를 찾는다면 연락 주세요.</span><span data-lang-en>If you need a PM who understands the work and leads with precision, and a developer who builds and delivers things on their own, let's talk.</span></p>
     <div class="contacts">
       <a href="mailto:k_star_w@naver.com"><svg class="ico" width="18" height="18" viewBox="0 0 24 24" fill="none" stroke="currentColor" stroke-width="1.75" stroke-linecap="round" stroke-linejoin="round" aria-hidden="true" focusable="false"><rect x="3" y="5" width="18" height="14" rx="2"/><path d="m3 7 9 6 9-6"/></svg>k_star_w@naver.com</a>
     </div>

diff --git a/src/home.html b/src/home.html
@@ -4,8 +4,8 @@
 <header class="hero2" id="top"><div class="wrap hero2-grid">
   <div>
     <div class="sec-no eyebrow-row">{{ico_user}}<span data-lang-ko>개발자 · PM 김진완</span><span data-lang-en>Developer &amp; PM · Kim Jinwan</span></div>
-    <h1><span data-lang-ko>AI로 만들고 직접 운영하는<br>개발자 · PM, 김진완입니다.</span><span data-lang-en>I'm Jinwan Kim, a developer &amp; PM<br>who builds and runs services with AI.</span></h1>
-    <p class="lead"><span data-lang-ko>영업·기획에서 시작해 개발자, 개발팀장, PM으로 11년을 현장에서 일했습니다. 지금은 그 경험으로 무엇을 만들지 정하고, 반복되는 작업은 직접 설계한 AI 공장에 맡깁니다. 이 페이지는 직접 만들어 운영하는 서비스, 그 생산을 맡은 AI 공장, 그리고 경력 순서로 이어집니다.</span><span data-lang-en>I spent 11 years in the field, starting in sales and planning and moving on to developer, dev lead and PM. Now that experience decides what I build, and the repetitive work goes to AI factories I designed. This page follows that in order: the services I build and run, the AI factories behind them, and my career.</span></p>
+    <h1><span data-lang-ko>안녕하세요,<br>개발자이자 PM 김진완입니다.</span><span data-lang-en>Hi, I'm Jinwan Kim,<br>a developer and PM.</span></h1>
+    <p class="lead"><span data-lang-ko>영업과 기획에서 시작해 개발자, 개발팀장, PM까지 11년을 현장에서 일했습니다. 문제를 쪼개 논리적으로 풀고, 검증을 통과한 것만 내놓고, 만든 것은 끝까지 운영하는 방식으로 일합니다. 지금도 쉬지 않고 무언가를 만들고 있습니다. 아래에는 만들어 제공하는 서비스, 그 생산을 맡긴 공장, 그리고 지나온 경력을 차례로 적었습니다.</span><span data-lang-en>I started in sales and planning, then spent 11 years in the field as a developer, dev lead and PM. I break problems down and solve them logically, ship only what passes verification, and keep running what I build. I still never stop making things. Below are the services I provide, the factories behind them, and the career that led here.</span></p>
   </div>
   <div class="hero-media">
     <video id="heroVideo" class="hero-video" src="/assets/hero/jinwan-intro.mp4" poster="/assets/hero/jinwan-intro.jpg" muted loop playsinline autoplay preload="metadata" width="1920" height="1080" aria-label="김진완 소개 모션그래픽 영상"></video>
@@ -18,8 +18,8 @@
 
 <section class="block story" id="services"><div class="wrap">
   <div class="sec-head"><div class="sec-no">{{ico_rocket}}<b>01</b> Services</div>
-    <h2 class="sec-title"><span data-lang-ko>직접 만들어 운영하는 서비스</span><span data-lang-en>Services I build and run</span></h2></div>
-    <p class="bridge"><span data-lang-ko>먼저 크게 만든 것들입니다. 전부 직접 만들었고, 지금도 실제 주소에서 운영하고 있습니다.</span><span data-lang-en>First, the big ones. I built every one myself, and I still run them at their live addresses.</span></p>
+    <h2 class="sec-title"><span data-lang-ko>직접 만들어 제공하는 서비스</span><span data-lang-en>Services I build and provide</span></h2></div>
+    <p class="bridge"><span data-lang-ko>먼저 크게 만든 것들입니다. 전부 직접 만들었고, 지금도 실제 주소에서 제공하고 있습니다.</span><span data-lang-en>First, the big ones. I built every one myself, and they are all available at their live addresses.</span></p>
     <div class="svc-block">{{featured_wide}}</div>
   <p class="more-line"><a class="more" href="/works/"><span data-lang-ko>서비스 전체 보기</span><span data-lang-en>All services</span>{{ico_ext}}</a></p>
 </div></section>

diff --git a/career/index.html b/career/index.html
@@ -36,7 +36,7 @@
 <script type="application/ld+json">{"@context":"https://schema.org","@graph":[{"@type":"WebSite","@id":"https://kimjinwan.com/#website","url":"https://kimjinwan.com/","name":"Kein — 김진완","alternateName":["김진완 포트폴리오","Kim Jinwan"],"inLanguage":["ko","en"],"publisher":{"@id":"https://kimjinwan.com/#person"}},{"@type":"Person","@id":"https://kimjinwan.com/#person","name":"김진완","alternateName":["Kim Jinwan","Kein"],"url":"https://kimjinwan.com/","jobTitle":["Software Product Manager","Developer"],"knowsAbout":["PM / PO","Full-stack Dev","Team Leadership","AI Production"]},{"@type":"WebPage","@id":"https://kimjinwan.com/career/#webpage","url":"https://kimjinwan.com/career/","name":"경력 11년과 프로젝트 56개 — 김진완","description":"영업·기획에서 시작해 개발자, 개발팀장, 차량 소프트웨어 PM까지 이어진 11년 경력과 수행 프로젝트 56개 전체. 시기별 역할과 대표 프로젝트, 경력을 게임으로 둘러보는 Career Run도 있습니다.","inLanguage":"ko","dateModified":"2026-10-12","isPartOf":{"@id":"https://kimjinwan.com/#website"},"about":{"@id":"https://kimjinwan.com/#person"},"breadcrumb":{"@id":"https://kimjinwan.com/career/#breadcrumb"},"primaryImageOfPage":{"@type":"ImageObject","@id":"https://kimjinwan.com/career/#primaryimage","url":"https://kimjinwan.com/assets/og/career.png?v=dcb6fb39e3","contentUrl":"https://kimjinwan.com/assets/og/career.png?v=dcb6fb39e3","thumbnailUrl":"https://kimjinwan.com/assets/og/career.png?v=dcb6fb39e3","width":1200,"height":630,"caption":"“11년, 현장에서 쌓은 경력과 프로젝트 56개” — Kein 로고와 김진완 · 개발자 · PM, kimjinwan.com이 적힌 공유 카드"},"thumbnailUrl":"https://kimjinwan.com/assets/og/career.png?v=dcb6fb39e3"},{"@type":"BreadcrumbList","@id":"https://kimjinwan.com/career/#breadcrumb","itemListElement":[{"@type":"ListItem","position":1,"name":"홈","item":"https://kimjinwan.com/"},{"@type":"ListItem","position":2,"name":"경력","item":"https://kimjinwan.com/career/"}]}]}</script>
 <link rel="preconnect" href="https://cdn.jsdelivr.net">
 <link rel="stylesheet" href="https://cdn.jsdelivr.net/gh/orioncactus/pretendard@v1.3.9/dist/web/static/pretendard-dynamic-subset.css">
-<link rel="stylesheet" href="/css/style.css?v=1.3.23">
+<link rel="stylesheet" href="/css/style.css?v=1.3.24">
 <script src="/js/theme-core.js"></script>
 <script>document.documentElement.classList.add('js');__theme.apply()</script>
 </head>
@@ -130,7 +130,7 @@
 <footer id="contact"><div class="wrap">
   <div class="foot-cta">
     <h2><span data-lang-ko>함께 만들 무언가가 있다면</span><span data-lang-en>Got something to build together?</span></h2>
-    <p><span data-lang-ko>현장의 디테일을 이해하고 정확하게 이끄는 PM, 그리고 AI로 직접 만들어 운영까지 하는 개발자를 찾는다면 연락 주세요.</span><span data-lang-en>If you need a PM who understands the work and leads with precision, and a developer who builds and runs things with AI, let's talk.</span></p>
+    <p><span data-lang-ko>현장의 디테일을 이해하고 정확하게 이끄는 PM, 그리고 직접 만들어 제공하는 개발자를 찾는다면 연락 주세요.</span><span data-lang-en>If you need a PM who understands the work and leads with precision, and a developer who builds and delivers things on their own, let's talk.</span></p>
     <div class="contacts">
       <a href="mailto:k_star_w@naver.com"><svg class="ico" width="18" height="18" viewBox="0 0 24 24" fill="none" stroke="currentColor" stroke-width="1.75" stroke-linecap="round" stroke-linejoin="round" aria-hidden="true" focusable="false"><rect x="3" y="5" width="18" height="14" rx="2"/><path d="m3 7 9 6 9-6"/></svg>k_star_w@naver.com</a>
     </div>

diff --git a/src/factories.html b/src/factories.html
@@ -4,7 +4,7 @@
   {{breadcrumb}}
   <div class="sec-head"><div class="sec-no">{{ico_factory}}<b>Factories</b></div>
     <h1 class="sec-title"><span data-lang-ko>직접 설계한 AI 공장</span><span data-lang-en>The AI factories I designed</span></h1>
-    <p class="sec-sub"><span data-lang-ko>서비스를 직접 만들어 운영하는 데서 그치지 않고, 반복되는 생산을 공장으로 묶었습니다. 여기 있는 공장은 "AI가 알아서 한다"가 아니라, 단계와 품질 게이트가 정의된 파이프라인입니다. 게이트를 통과하지 못하면 다음 단계로 가지 못하고, 사람이 개입하는 지점은 공장마다 정해져 있습니다. 앱은 심사 제출을 사람이 승인하고, 블로그·영상·웹 도구는 공개 전 사람 승인 없이 자동 검사를 거쳐 공개합니다. 수치는 표시된 기준일의 실측값입니다.</span><span data-lang-en>I didn't stop at building and running services; I tied repeated production into factories. These are not "AI does whatever"; each is a pipeline with defined stages and quality gates. Work cannot advance past a failing gate, and the points where a person steps in are fixed per factory. I approve app submissions myself; the blog, videos and web tools go public after automated checks, with no pre-publish human approval. Figures are measured as of the date shown.</span></p></div>
+    <p class="sec-sub"><span data-lang-ko>서비스를 직접 만들어 제공하는 데서 그치지 않고, 반복되는 생산을 공장으로 묶었습니다. 여기 있는 공장은 "AI가 알아서 한다"가 아니라, 단계와 품질 게이트가 정의된 파이프라인입니다. 게이트를 통과하지 못하면 다음 단계로 가지 못하고, 사람이 개입하는 지점은 공장마다 정해져 있습니다. 앱은 심사 제출을 사람이 승인하고, 블로그·영상·웹 도구는 공개 전 사람 승인 없이 자동 검사를 거쳐 공개합니다. 수치는 표시된 기준일의 실측값입니다.</span><span data-lang-en>I didn't stop at building and providing services; I tied repeated production into factories. These are not "AI does whatever"; each is a pipeline with defined stages and quality gates. Work cannot advance past a failing gate, and the points where a person steps in are fixed per factory. I approve app submissions myself; the blog, videos and web tools go public after automated checks, with no pre-publish human approval. Figures are measured as of the date shown.</span></p></div>
   <div class="pills" role="navigation" aria-label="factories">{{factory_nav}}</div>
   {{stage_legend}}
   <div class="fac-list">{{factories}}</div>

diff --git a/src/partials/footer.html b/src/partials/footer.html
@@ -1,7 +1,7 @@
 <footer id="contact"><div class="wrap">
   <div class="foot-cta">
     <h2><span data-lang-ko>함께 만들 무언가가 있다면</span><span data-lang-en>Got something to build together?</span></h2>
-    <p><span data-lang-ko>현장의 디테일을 이해하고 정확하게 이끄는 PM, 그리고 AI로 직접 만들어 운영까지 하는 개발자를 찾는다면 연락 주세요.</span><span data-lang-en>If you need a PM who understands the work and leads with precision, and a developer who builds and runs things with AI, let's talk.</span></p>
+    <p><span data-lang-ko>현장의 디테일을 이해하고 정확하게 이끄는 PM, 그리고 직접 만들어 제공하는 개발자를 찾는다면 연락 주세요.</span><span data-lang-en>If you need a PM who understands the work and leads with precision, and a developer who builds and delivers things on their own, let's talk.</span></p>
     <div class="contacts">
       <a href="mailto:k_star_w@naver.com">{{ico_mail}}k_star_w@naver.com</a>
     </div>

diff --git a/DEPLOYMENT.md b/DEPLOYMENT.md
@@ -1,5 +1,9 @@
 # 배포 및 검색 설정 — 2026-09-09
 
+## 1.3.24 배포 기록 — 2026-10-12
+
+히어로를 1인칭 소개(인사 + 일하는 방식 + 지금)로 다시 썼다. 한국어는 '저는·제가' 금지 규칙 때문에 인사말과 생략된 주어로 1인칭을 만들었다. 'AI로 만들고 직접 운영하는' 표현을 히어로·푸터·메타(제목·설명·공유 카드)에서 빼고, 서비스 영역 표현을 '직접 만들어 운영하는' → '직접 만들어 제공하는' 으로 바꿨다(홈·/works/·메타). 공유 카드(home·works) 재생성. 직전 1.3.23 은 복구용 유지.
+
 ## 1.3.23 배포 기록 — 2026-10-12
 
 히어로 영상을 경력 소개형에서 **개발자 습관 소개형(터미널 · 테스트 러너 · build→verify→ship 루프, 15초)** 으로 다시 만들어 교체했다. 캡션은 '이 영상은 CodeMotionMaker로 만들었습니다' 로 바꾸고 서비스 이름에 codemotionmaker.kimjinwan.com 링크를 달았다. 직전 1.3.22 는 복구용 유지.
